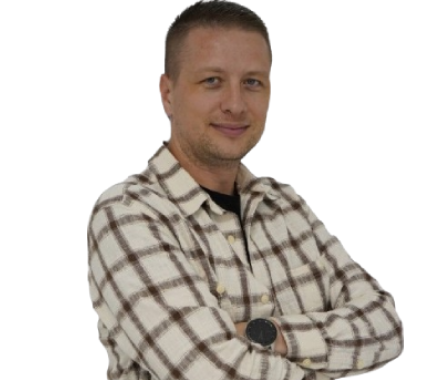
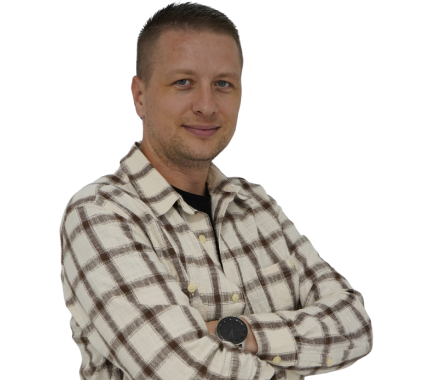
About me, little correction and new photo | FINISHED

diff --git a/src/components/Hero/Hero.jsx b/src/components/Hero/Hero.jsx
@@ -1,6 +1,6 @@
 import React from 'react'
 import css from './Hero.module.scss';
-import Jimmy from '../../assets/mainPhoto1.png';
+import Jimmy from '../../assets/mainPhoto2.png';
 import { FaReact } from "react-icons/fa";
 import { motion } from 'framer-motion';
 import { fadeIn, slideIn, staggerContainer } from '../../utils/motion'

diff --git a/src/components/Hero/Hero.module.scss b/src/components/Hero/Hero.module.scss
@@ -74,6 +74,7 @@
             background-repeat: no-repeat;
             background-size: 23rem;
             left: 35%;
+            overflow: hidden;
 
             img {
                 @media (max-width: $sm) {

diff --git a/src/components/Header/Header.module.scss b/src/components/Header/Header.module.scss
@@ -6,7 +6,6 @@
     z-index: 99;
     opacity: 1;
     transform: none;
-    position: sticky;
     top: 0;
     transition: all 300ms ease;
 
